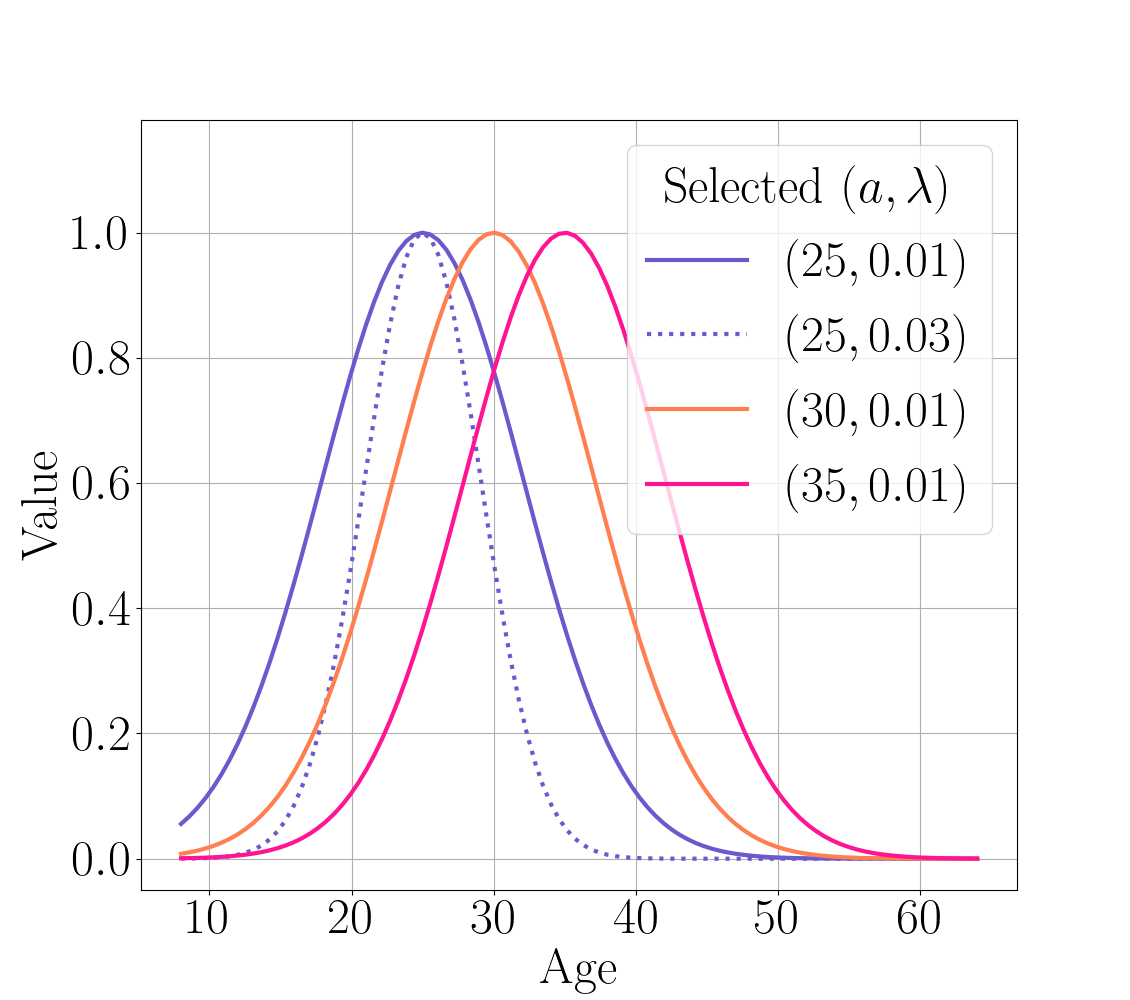
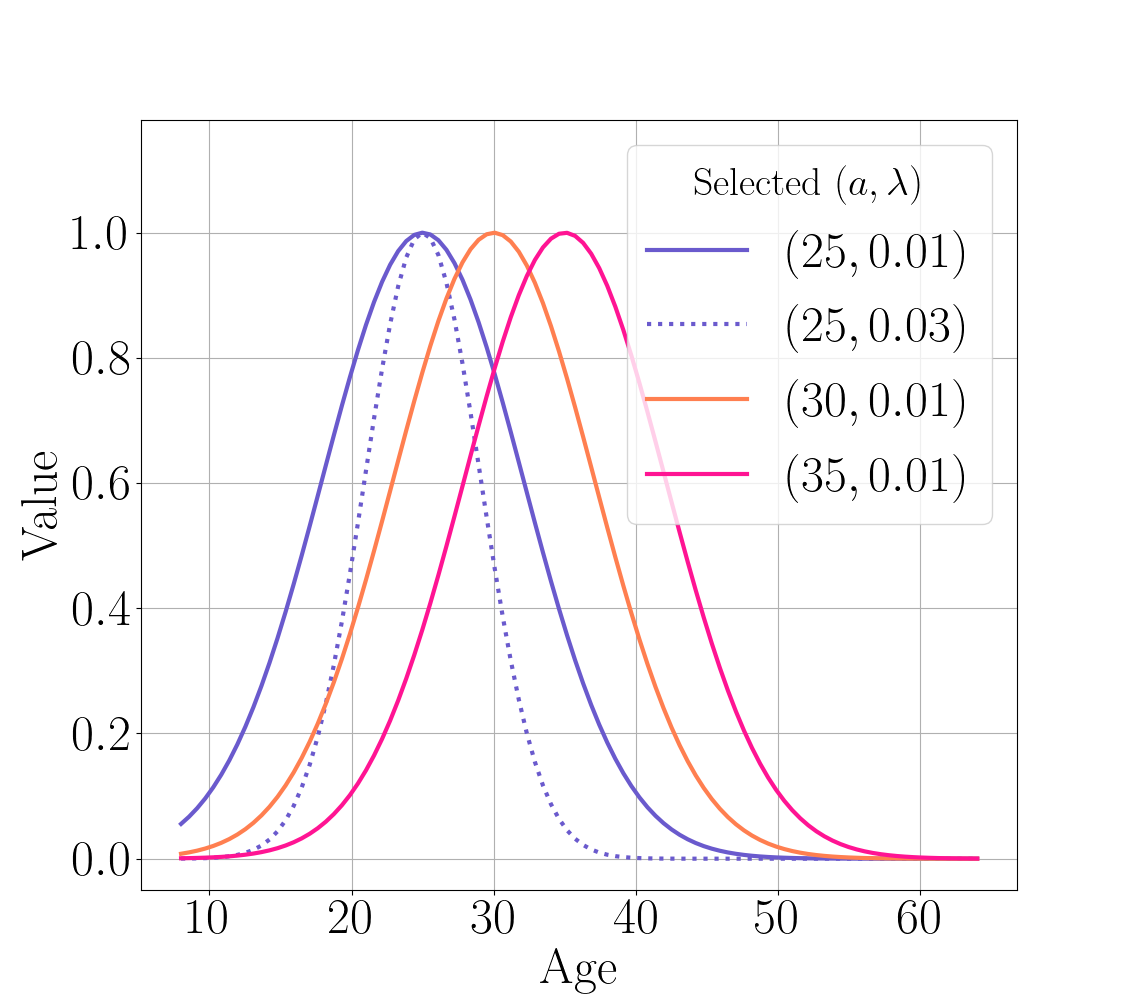
update

diff --git a/Tennis/Figure1.py b/Tennis/Figure1.py
@@ -11,6 +11,7 @@ from matplotlib import rc
 
 rc('text', usetex=True)
 rc('font', family='serif')
+# pd.set_option('future.no_silent_downcasting', True)
 sz = 36
 Figure_name = os.path.basename(__file__)[:-3]
 project_root = os.path.abspath(os.path.join(os.path.dirname(__file__), '..'))
@@ -19,7 +20,6 @@ from package import algorithm
 
 data_file_path = lambda x: os.path.join(project_root, 'data', x)
 save_path = lambda x: os.path.join(project_root, 'results', f'{Figure_name}{x}')
-
 
 # loading data
 if __name__ == "__main__":
@@ -44,7 +44,6 @@ if __name__ == "__main__":
     print('Complete!')
     time.sleep(1)
     
-    os.chdir('results')
     # Data analysis
     print('\n'+"="*10+'Data analysis'+"="*10)
     print('We have selected the optimal basis functions based on the BIC.')
@@ -137,8 +136,8 @@ if __name__ == "__main__":
 
 
     plt.grid()
-    plt.savefig(save_path('.png'))
+    plt.savefig(save_path('.pdf'))
     print("Complete!")
     time.sleep(1)
-    print(f'We have saved the results as {Figure_name}.png.')
+    print(f'We have saved the results as {Figure_name}.pdf.')
         

diff --git a/Tennis/Figure5.py b/Tennis/Figure5.py
@@ -149,10 +149,10 @@ if __name__ == "__main__":
     plt.yticks(size = sz)
     rc('text', usetex=True)
     rc('font', family='serif')
-    ax.legend(title='Selected $(a, \lambda)$', prop={'size': sz},\
+    ax.legend(title='Selected $(a, \lambda)$', prop={'size': 0.8*sz},\
             title_fontsize=sz, loc='upper right')
     plt.grid()
-    plt.savefig(save_path('(a).png'))
+    plt.savefig(save_path('(a).pdf'))
 
 
 
@@ -169,7 +169,6 @@ if __name__ == "__main__":
     ax.axvline(x=36.6, color='red', linestyle=':', linewidth = 3)
     ax.fill_betweenx(y*100-20, 17.4, 36.6, color='gray', alpha=0.12)
 
-    sz = 36
     ax.set_xlabel('Age', size = sz)
     ax.set_ylabel('Estimated age effect', size = sz)
     ax.set_ylim([-0.2, 4.4])
@@ -179,6 +178,6 @@ if __name__ == "__main__":
     rc('text', usetex=True)
     rc('font', family='serif')
     plt.grid()
-    plt.savefig(save_path('(b).png'))
-    print(f'These two figures have been saved in {Figure_name}(a)(b).png')
+    plt.savefig(save_path('(b).pdf'))
+    print(f'These two figures have been saved in {Figure_name}(a)(b).pdf')
     

diff --git a/Simulation/FigureS1.py b/Simulation/FigureS1.py
@@ -116,8 +116,8 @@ if __name__ == '__main__':
         plt.xticks(range(200, 1200, 200), size=sz)
         plt.yticks(y_ticks[j], size=sz)
         plt.grid()
-        plt.savefig(save_path(f'{save[j]}.png'))
-    print(f'We have saved the NURHM results as {Figure_name}(a).png and {Figure_name}(b).png.\n')
+        plt.savefig(save_path(f'{save[j]}.pdf'))
+    print(f'We have saved the NURHM results as {Figure_name}(a).pdf and {Figure_name}(b).pdf.\n')
 
     # HSBM
     print('\n='*10+'HSBM'+'='*10)
@@ -150,8 +150,8 @@ if __name__ == '__main__':
         plt.xticks(range(200, 1200, 200), size=sz)
         plt.yticks(y_ticks[j], size=sz)
         plt.grid()
-        plt.savefig(save_path(f'{save[j]}.png'))
-    print(f'We have saved the HSBM results as {Figure_name}(c).png and {Figure_name}(d).png.\n')
+        plt.savefig(save_path(f'{save[j]}.pdf'))
+    print(f'We have saved the HSBM results as {Figure_name}(c).pdf and {Figure_name}(d).pdf.\n')
 
     t2 = time.time()
     print(f'Total Time:{int(t2-t1)}s')

diff --git a/HorseRacing/FigureS3.py b/HorseRacing/FigureS3.py
@@ -187,5 +187,5 @@ if __name__ == "__main__":
             patch.set_facecolor(color)
             patch.set_edgecolor('black')
 
-        plt.savefig(save_path(f'{save_name[j]}.png'))
-        print(f'The figure has also been saved as {Figure_name + save_name[j]}.png.')
+        plt.savefig(save_path(f'{save_name[j]}.pdf'))
+        print(f'The figure has also been saved as {Figure_name + save_name[j]}.pdf.')

diff --git a/HorseRacing/FigureS2.py b/HorseRacing/FigureS2.py
@@ -157,5 +157,5 @@ if __name__ == "__main__":
     ax.set_xlabel(r'$\hat{\bm{u}}$'+" (PL)",size = sz)
     ax.set_ylabel(r'$\hat{\bm{u}}$'+" (PlusDC)",size = sz)
 
-    plt.savefig(save_path('(left).png'))
-    print(f'The figure has also been saved as {Figure_name}(left).png.')
+    plt.savefig(save_path('(left).pdf'))
+    print(f'The figure has also been saved as {Figure_name}(left).pdf.')

diff --git a/README.md b/README.md
@@ -68,10 +68,10 @@ This experiment verifies the uniform consistency of the maximum likelihood estim
   - Generates a hypergraph with edge-dependent covariates under a specific setting.  
   - Computes the $\ell_\infty$-loss between the estimator and true parameters.  
   - Runs 300 repetitions and saves the results as:  
-    - *FigureS1(a).png*  
-    - *FigureS1(b).png*  
-    - *FigureS1(c).png*  
-    - *FigureS1(d).png*  
+    - *FigureS1(a).pdf*  
+    - *FigureS1(b).pdf*  
+    - *FigureS1(c).pdf*  
+    - *FigureS1(d).pdf*  
 
 ---
 
@@ -87,14 +87,14 @@ This experiment examines the age effect on tennis players and constructs a dynam
   - Computes basis coefficients using the PlusDC model.  
   - Selects the optimal combination using the BIC criterion.  
   - Plots and saves:  
-    - *Figure5(a).png* (Optimal bases)  
-    - *Figure5(b).png* (Estimated age effect)  
+    - *Figure5(a).pdf* (Optimal bases)  
+    - *Figure5(b).pdf* (Estimated age effect)  
   - Compares player rankings obtained from the PlusDC and BT models, saving results in *Figure5(c).csv*.  
 
 - **Figure1.py**:  
   - Uses the selected basis functions (from **Figure5.py**) to fit the PlusDC model.  
   - Integrates player birthdates to generate the "dynamic ability table".  
-  - Saves the results as *Figure1.png*.  
+  - Saves the results as *Figure1.pdf*.  
 
 ---
 
@@ -114,15 +114,15 @@ This experiment investigates the incorporation of actual weight, draw position, 
   - Compares results from the PlusDC and PL models.  
   - Saves outputs as:  
     - *FigureS2(right).csv*  
-    - *FigureS2(left).png*  
+    - *FigureS2(left).pdf*  
 
 - **FigureS3.py**:  
   - Conducts k-fold cross-validation.  
   - Compares predictive performance with the PL model and public belief.  
   - Saves plots as:  
-    - *FigureS3(a).png*  
-    - *FigureS3(b).png*  
-    - *FigureS3(c).png*  
+    - *FigureS3(a).pdf*  
+    - *FigureS3(b).pdf*  
+    - *FigureS3(c).pdf*  
 
 ### 2.2. Algorithm Core Functions  
 - **algorithm.py**: Implements the alternating maximization algorithm.  
